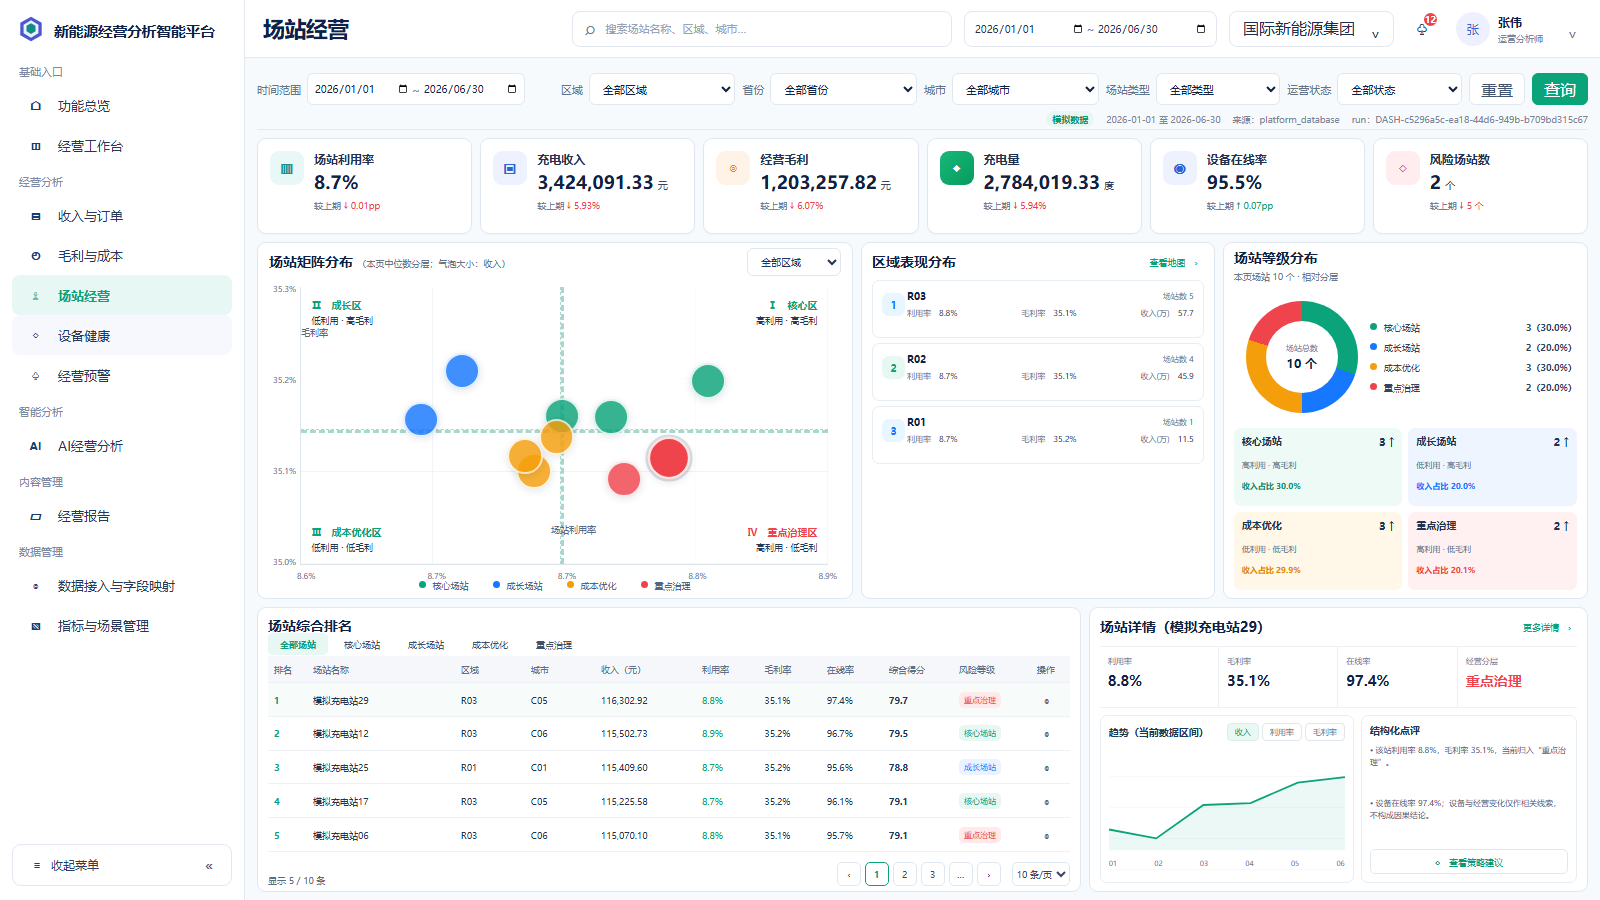
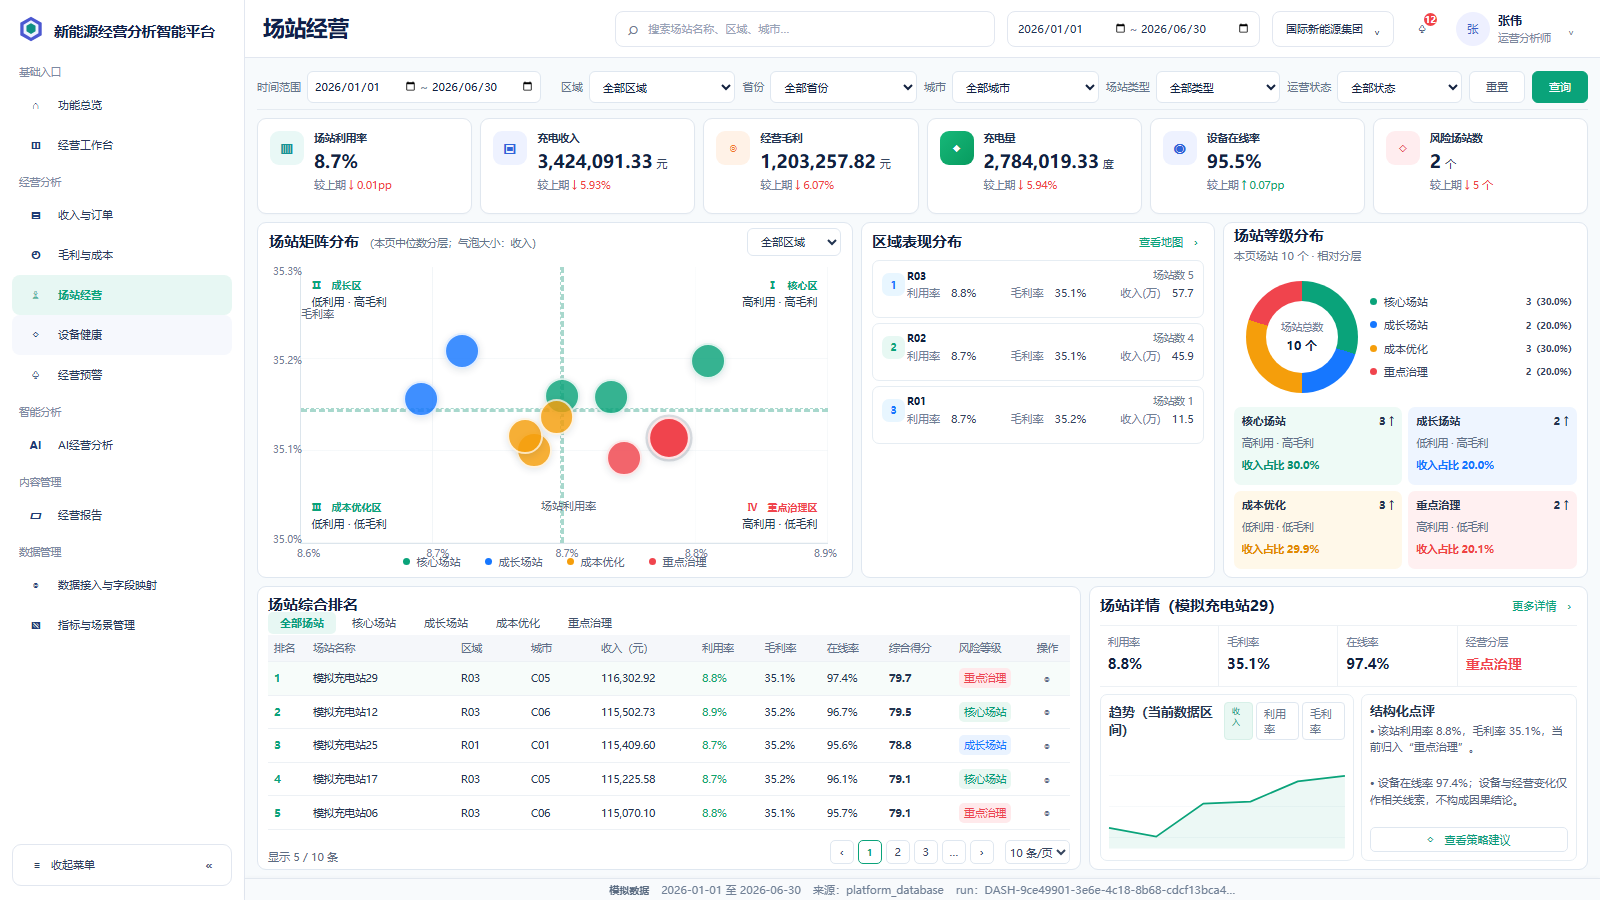
style(ui): unify readable product typography

diff --git a/frontend/src/typography.css b/frontend/src/typography.css
@@ -1,0 +1,146 @@
+:root {
+  --ui-font-family: "Noto Sans SC", "Microsoft YaHei", "PingFang SC", "Helvetica Neue", Arial, sans-serif;
+  --ui-font-base: clamp(11px, .68vw, 13px);
+  --ui-font-small: clamp(10.5px, .61vw, 12px);
+  --ui-font-dense: clamp(10px, .56vw, 11px);
+  --ui-font-h1: clamp(22px, 1.35vw, 26px);
+  --ui-font-h2: clamp(15px, .9vw, 17px);
+  --ui-font-h3: clamp(13px, .76vw, 15px);
+}
+
+body,
+button,
+input,
+select,
+textarea {
+  font-family: var(--ui-font-family);
+}
+
+.product-shell,
+.product-login {
+  font-family: var(--ui-font-family);
+  font-size: var(--ui-font-base);
+  line-height: 1.4;
+  text-rendering: optimizeLegibility;
+  -webkit-font-smoothing: antialiased;
+}
+
+.product-shell :where(p, li, dt, dd, label, button, input, select, textarea, span) {
+  font-size: var(--ui-font-base) !important;
+}
+
+.product-shell :where(small, em, time, kbd, code, summary, th, td) {
+  font-size: var(--ui-font-small) !important;
+}
+
+.product-shell :where(h1, .page-title h1) {
+  font-size: var(--ui-font-h1) !important;
+  line-height: 1.2;
+}
+
+.product-shell :where(h2, .station-panel h2, .report-workspace h2) {
+  font-size: var(--ui-font-h2) !important;
+  line-height: 1.3;
+}
+
+.product-shell :where(h3, .station-detail-body h3, .report-workspace h3) {
+  font-size: var(--ui-font-h3) !important;
+  line-height: 1.35;
+}
+
+.product-sidebar nav button,
+.product-sidebar nav button span,
+.product-sidebar .collapse,
+.product-header button,
+.product-header input {
+  font-size: var(--ui-font-base) !important;
+}
+
+.product-sidebar nav h2,
+.page-title > span,
+.product-header small,
+.truth-row,
+.evidence,
+.station-truth,
+.margin-truth,
+.report-truth {
+  font-size: var(--ui-font-small) !important;
+}
+
+.overview-page :where(p, li, button, span, small),
+.workbench-page :where(p, li, button, span, small, td, th),
+.detail-page :where(p, button, span, small, td, th),
+.boundary-page :where(p, button, span, small),
+.diagnostics-page :where(p, button, span, small, td, th, dt, dd),
+.station-page :where(p, button, span, small, td, th, label, select, input),
+.margin-page :where(p, button, span, small, td, th, label, select, input),
+.report-workspace :where(p, button, span, small, td, th, label, select, input, textarea),
+.ai-analysis-page :where(p, button, span, small, li, dt, dd, label, input, textarea) {
+  letter-spacing: 0;
+}
+
+.station-page :where(.matrix-scale span, .station-trend-chart span),
+.margin-page :where(.margin-trend text, .margin-trend > div, .cost-structure li),
+.report-workspace :where(.report-trend-axis span, .report-truth),
+.ai-analysis-page :where(.chat-evidence-panel p, .chat-evidence-panel small, .chat-evidence-panel li, .chat-evidence-panel code, .chat-evidence-panel summary, .chat-history-list small) {
+  font-size: var(--ui-font-dense) !important;
+}
+
+.station-kpis span,
+.workbench-kpis span,
+.detail-summary span,
+.report-kpis span {
+  font-size: var(--ui-font-small) !important;
+}
+
+.station-kpis strong,
+.detail-summary b {
+  letter-spacing: 0;
+}
+
+@media (min-width: 1081px) {
+  .station-mode .station-page {
+    padding-bottom: 22px;
+    grid-template-rows: 44px 96px minmax(300px, 1.25fr) minmax(260px, 1fr);
+  }
+
+  .station-mode .station-filter-bar {
+    padding-top: 3px;
+    grid-template-rows: 36px;
+  }
+
+  .station-mode .station-truth {
+    position: fixed;
+    z-index: 20;
+    right: 0;
+    bottom: 0;
+    left: 245px;
+    height: 22px;
+    padding: 0 14px;
+    justify-content: center;
+    border-top: 1px solid #e2e8ef;
+    background: rgba(248, 250, 252, .97);
+    color: #718096;
+    font-size: var(--ui-font-dense) !important;
+    box-shadow: 0 -1px 4px rgba(18, 33, 63, .03);
+  }
+
+  .station-mode .station-truth b {
+    padding: 0;
+    background: transparent;
+    color: #596a80;
+    font-weight: 600;
+  }
+}
+
+@media (max-width: 1320px) and (min-width: 1081px) {
+  .station-mode .station-truth {
+    left: 228px;
+  }
+}
+
+@media (max-height: 820px) and (min-width: 1081px) {
+  .station-mode .station-page {
+    grid-template-rows: 40px 86px minmax(270px, 1.2fr) minmax(235px, 1fr);
+  }
+}

diff --git a/frontend/e2e/global-typography.spec.ts b/frontend/e2e/global-typography.spec.ts
@@ -1,0 +1,39 @@
+import { expect, test } from '@playwright/test'
+
+test.use({ viewport: { width: 1920, height: 1080 } })
+
+test('all primary product views use the unified readable typography scale', async ({ page }) => {
+  await page.goto('/')
+  await page.locator('.product-login form > button').click()
+
+  const routeIndexes = [0, 1, 2, 3, 4, 5, 6, 7, 8]
+  for (const index of routeIndexes) {
+    await page.locator('.product-sidebar nav button').nth(index).click()
+
+    const typography = await page.evaluate(() => {
+      const selector = 'p,li,button,td,th,small,label,select,input,textarea,span,em,time,code,summary'
+      const visibleNodes = [...document.querySelectorAll(selector)].filter(node => {
+        const rect = node.getBoundingClientRect()
+        const style = getComputedStyle(node)
+        return rect.width > 0
+          && rect.height > 0
+          && style.visibility !== 'hidden'
+          && style.display !== 'none'
+          && Boolean((node.textContent || '').trim())
+      })
+      const sizes = visibleNodes
+        .map(node => Number.parseFloat(getComputedStyle(node).fontSize))
+        .filter(Number.isFinite)
+      return {
+        minimumFontSize: sizes.length ? Math.min(...sizes) : 0,
+        pageHeight: document.documentElement.scrollHeight,
+        viewportHeight: window.innerHeight,
+        fontFamily: getComputedStyle(document.body).fontFamily,
+      }
+    })
+
+    expect(typography.minimumFontSize).toBeGreaterThanOrEqual(10)
+    expect(typography.pageHeight).toBeLessThanOrEqual(typography.viewportHeight)
+    expect(typography.fontFamily).toContain('Noto Sans SC')
+  }
+})

diff --git a/frontend/src/main.tsx b/frontend/src/main.tsx
@@ -3,6 +3,7 @@ import { createRoot } from 'react-dom/client'
 import { formatMetric, metricNames } from './format'
 import './styles.css'
 import { ProductApp } from './overview'
+import './typography.css'
 
 type Metadata = {data_classification:string;data_time_range:{start:string;end_exclusive:string};source:string;batch_id:string|null;analysis_run_id:string}
 type Summary = {metrics:Record<string,number|null>;metadata:Metadata}
